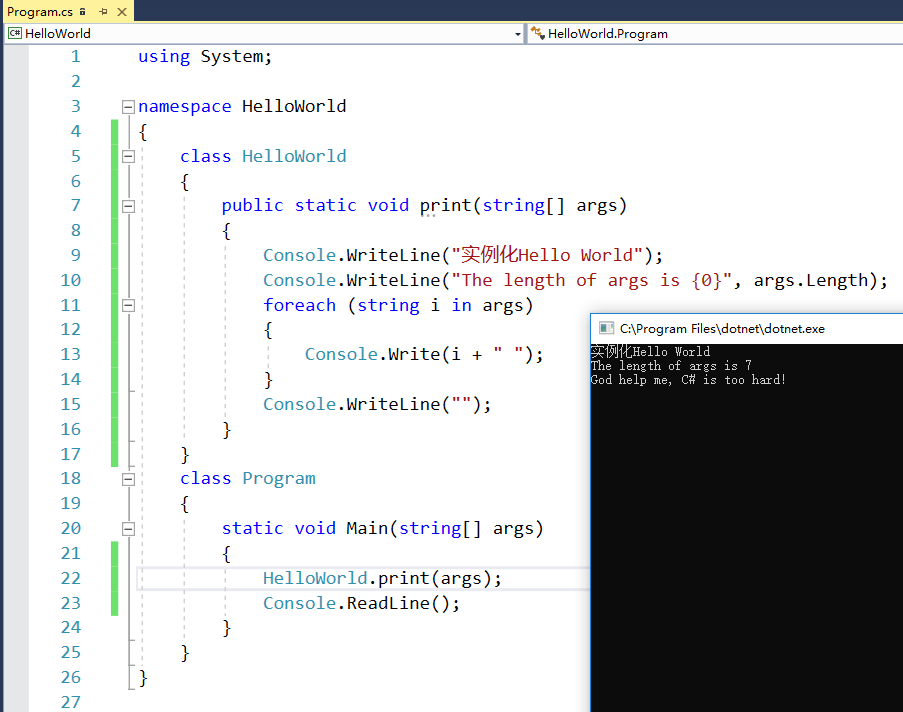
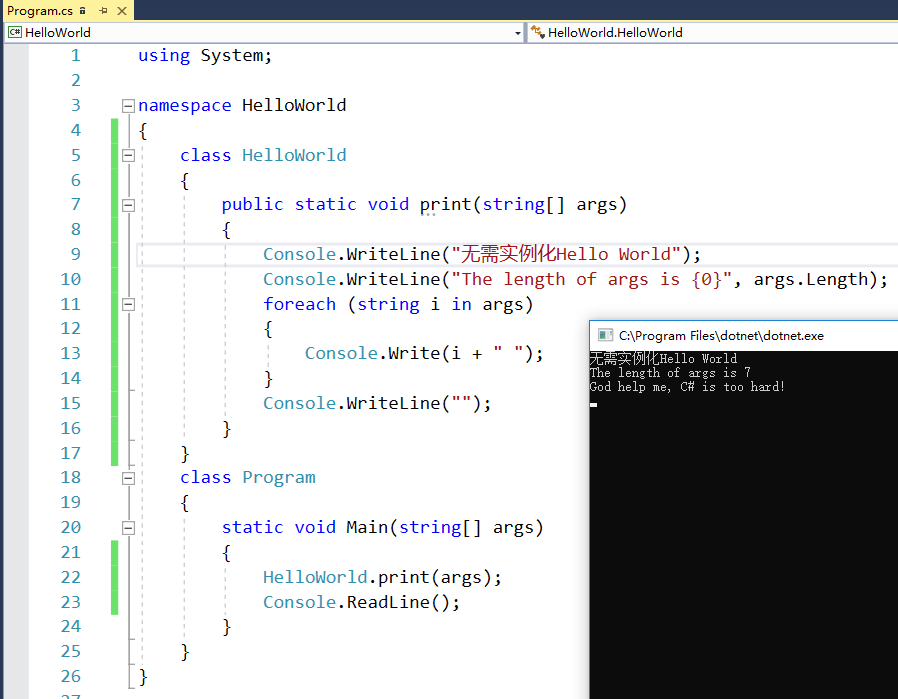
简单修改了下作业2.2

diff --git a/hw2/hw2.2/HelloWorld/HelloWorld/Program.cs b/hw2/hw2.2/HelloWorld/HelloWorld/Program.cs
@@ -6,7 +6,7 @@ namespace HelloWorld
     {
         public static void print(string[] args)
         {
-            Console.WriteLine("实例化Hello World");
+            Console.WriteLine("无需实例化Hello World");
             Console.WriteLine("The length of args is {0}", args.Length);
             foreach (string i in args)
             {
